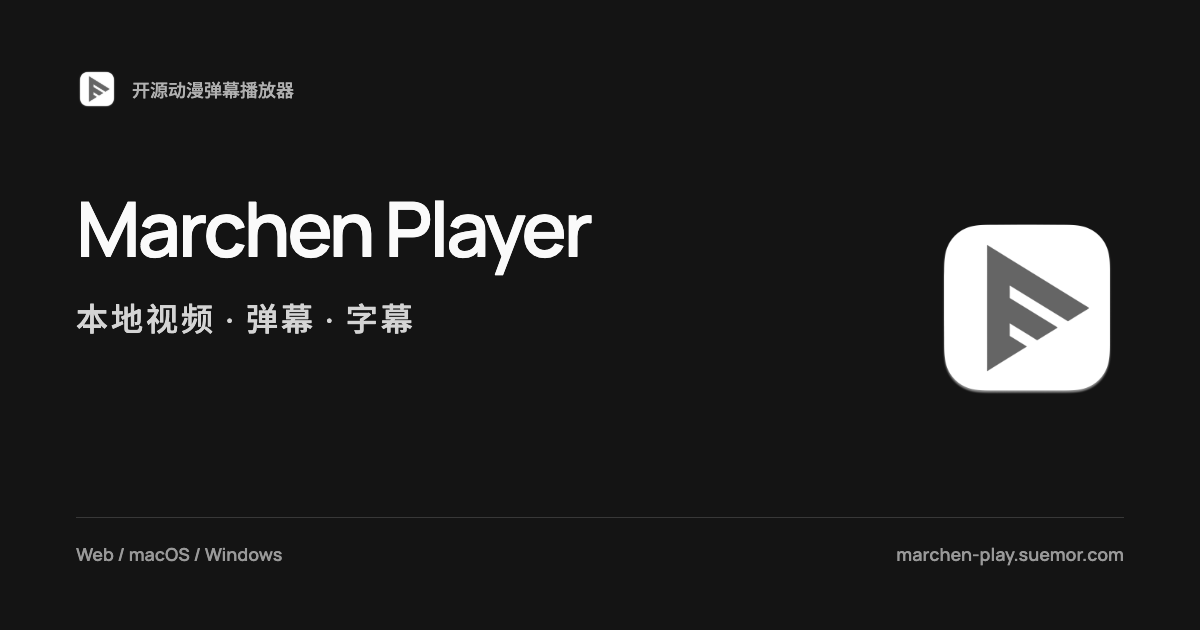
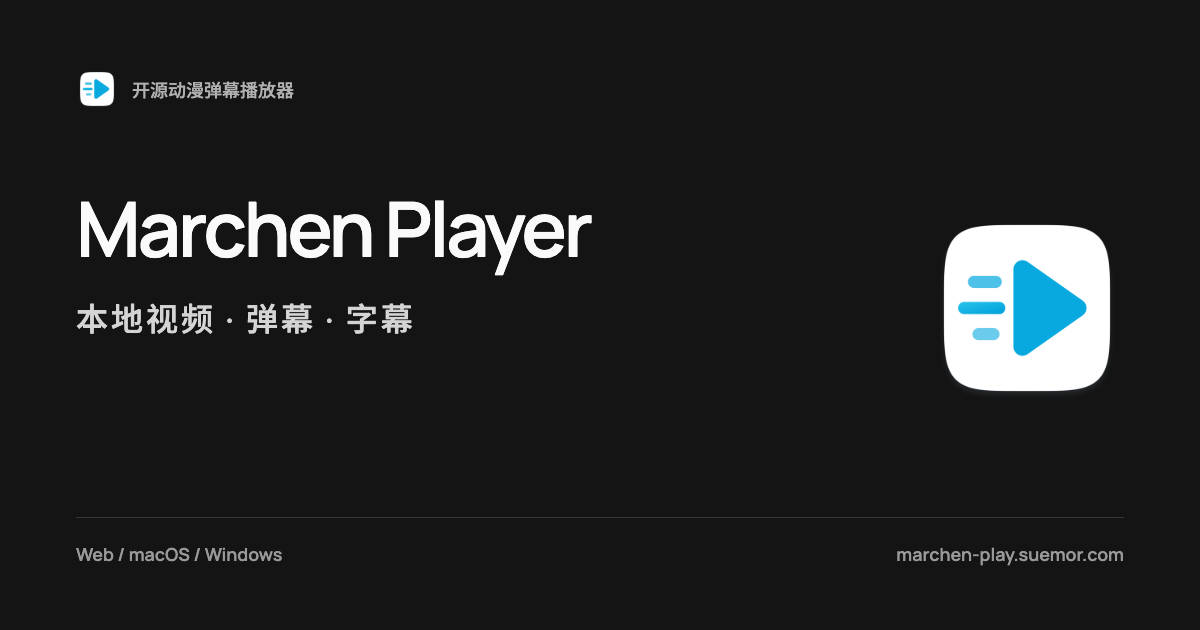
fix: 同步关于页与分享封面的应用图标

Changed region(s): [[0.8017, 0.3921, 0.925, 0.6333], [0.0617, 0.1206, 0.0925, 0.181], [0.8942, 0.3619, 0.925, 0.3921]]

diff --git a/src/renderer/src/components/icons/Logo.tsx b/src/renderer/src/components/icons/Logo.tsx
@@ -1,59 +1,12 @@
-import type { FC } from 'react'
-import { useAppTheme } from '@renderer/hooks/theme'
 import { cn } from '@renderer/lib/utils'
+import appIcon from '../../../../../resources/icon.png'
 
-const LogoSvg = ({
-  ref,
-  ...props
-}: React.SVGProps<SVGSVGElement> & { ref?: React.RefObject<SVGSVGElement> }) => (
-  <svg
-    version="1.0"
-    xmlns="http://www.w3.org/2000/svg"
-    width="1108.000000pt"
-    height="1108.000000pt"
-    viewBox="0 0 1108.000000 1108.000000"
-    preserveAspectRatio="xMidYMid meet"
-    {...props}
-    ref={ref}
-  >
-    <g transform="translate(0.000000,1108.000000) scale(0.100000,-0.100000)" stroke="none">
-      <path
-        d="M3410 5541 c0 -2842 2 -3371 14 -3371 7 0 24 8 37 18 13 10 128 83
-254 162 127 78 249 154 272 169 36 23 135 85 281 175 26 16 63 39 82 51 19 13
-154 96 300 185 943 580 863 529 850 545 -6 7 -82 57 -168 111 -306 189 -367
-227 -402 249 -19 12 -91 57 -160 98 -69 42 -134 82 -145 90 -19 14 -20 26 -20
-348 0 306 1 334 17 337 9 2 30 -5 45 -16 15 -11 116 -73 223 -139 107 -66 267
--164 355 -218 88 -54 230 -141 315 -193 85 -52 178 -109 205 -127 248 -160
-309 -195 329 -189 19 6 128 72 491 296 61 37 126 77 145 88 241 142 441 271
-434 281 -7 13 -63 48 -267 173 -84 51 -264 162 -402 246 -137 84 -335 205
--440 270 -104 65 -309 191 -455 280 -146 90 -290 179 -320 198 -30 18 -185
-114 -345 212 -159 98 -299 185 -310 193 -19 14 -20 28 -22 346 -2 270 0 333
-11 337 7 3 116 -59 242 -137 237 -146 468 -289 924 -569 146 -89 281 -173 300
--185 19 -12 89 -55 155 -95 66 -40 136 -83 155 -95 19 -13 118 -74 220 -135
-279 -170 800 -490 840 -515 67 -43 245 -152 267 -164 14 -7 30 -8 45 -2 13 5
-118 68 233 141 116 73 219 138 230 144 11 6 31 19 45 27 14 9 77 48 140 86
-327 199 451 276 455 283 7 12 -21 32 -190 135 -220 134 -460 281 -520 320 -53
-34 -338 209 -383 236 -15 9 -200 123 -412 254 -212 131 -437 269 -500 308 -63
-38 -155 95 -205 127 -49 31 -160 100 -245 152 -163 100 -334 205 -528 325 -64
-40 -152 94 -195 120 -168 104 -161 100 -902 556 -143 88 -276 170 -295 182
--19 12 -60 38 -90 57 -156 99 -971 602 -982 606 -4 2 -8 -1513 -8 -3367z"
-      />
-    </g>
-  </svg>
+/** 与桌面运行时共用图标资源，避免内嵌图形在品牌更新时遗漏。 */
+export const Logo = ({ className }: { className?: string }) => (
+  <img
+    src={appIcon}
+    alt="Marchen 应用图标"
+    className={cn('size-full object-contain', className)}
+    draggable={false}
+  />
 )
-
-export const Logo: FC<{ clasNames?: { wrapper?: string; icon?: string }; round?: boolean }> = (
-  props,
-) => {
-  const { isDarkMode } = useAppTheme()
-  const wrapper = props.clasNames?.wrapper
-  const icon = props.clasNames?.icon
-  if (!props.round) {
-    return <LogoSvg fill={isDarkMode ? '#A6ADBB' : '#000'} className={cn('size-full', icon)} />
-  }
-  return (
-    <div className={cn('bg-background rounded-xl', wrapper)}>
-      <LogoSvg fill={isDarkMode ? '#A6ADBB' : '#000'} className={cn('size-full', icon)} />
-    </div>
-  )
-}

diff --git a/src/renderer/src/components/modules/settings/views/about/About.tsx b/src/renderer/src/components/modules/settings/views/about/About.tsx
@@ -24,7 +24,7 @@ export const AboutView = () => {
         <SettingsGroup>
           <div className="flex min-h-28 items-center justify-between gap-6 p-4">
             <div className="flex min-w-0 items-center gap-4">
-              <Logo round clasNames={{ wrapper: 'size-16 shrink-0 border' }} />
+              <Logo className="size-16 shrink-0" />
               <div className="min-w-0">
                 <h3 className="text-base font-semibold">Marchen Player</h3>
                 <p className="mt-1 text-sm text-[var(--settings-muted)]">当前版本 {version}</p>
